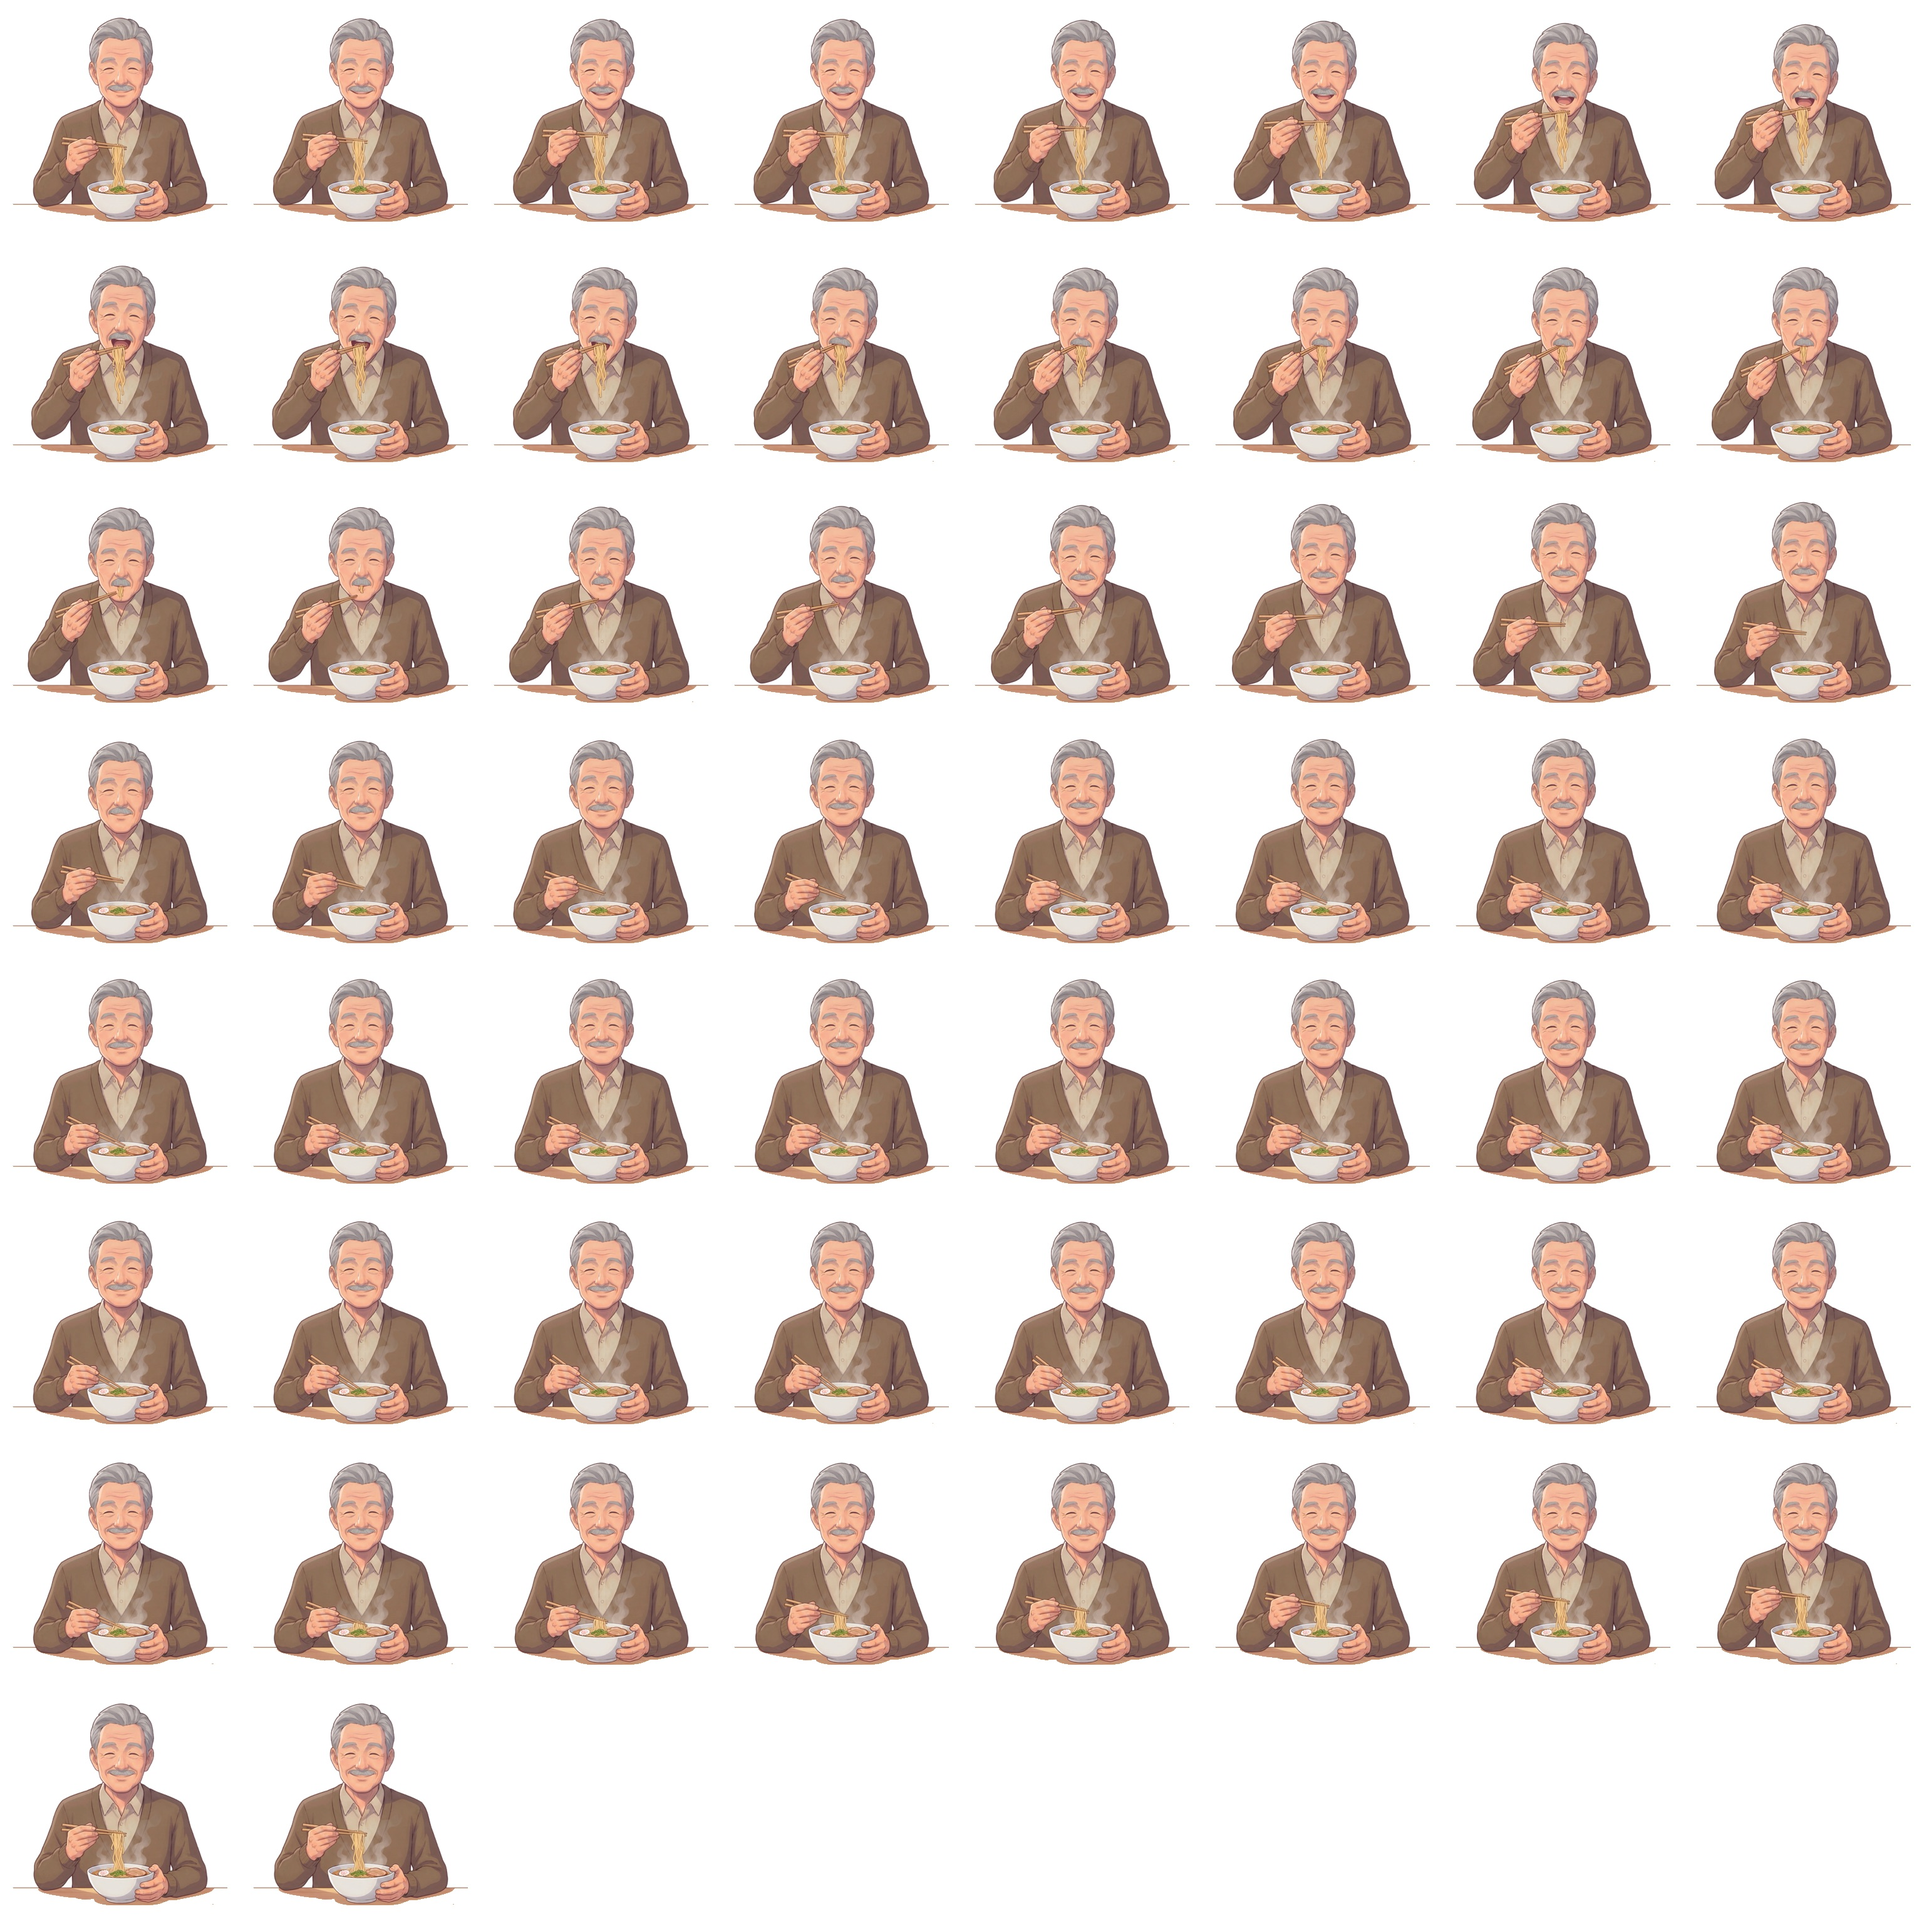
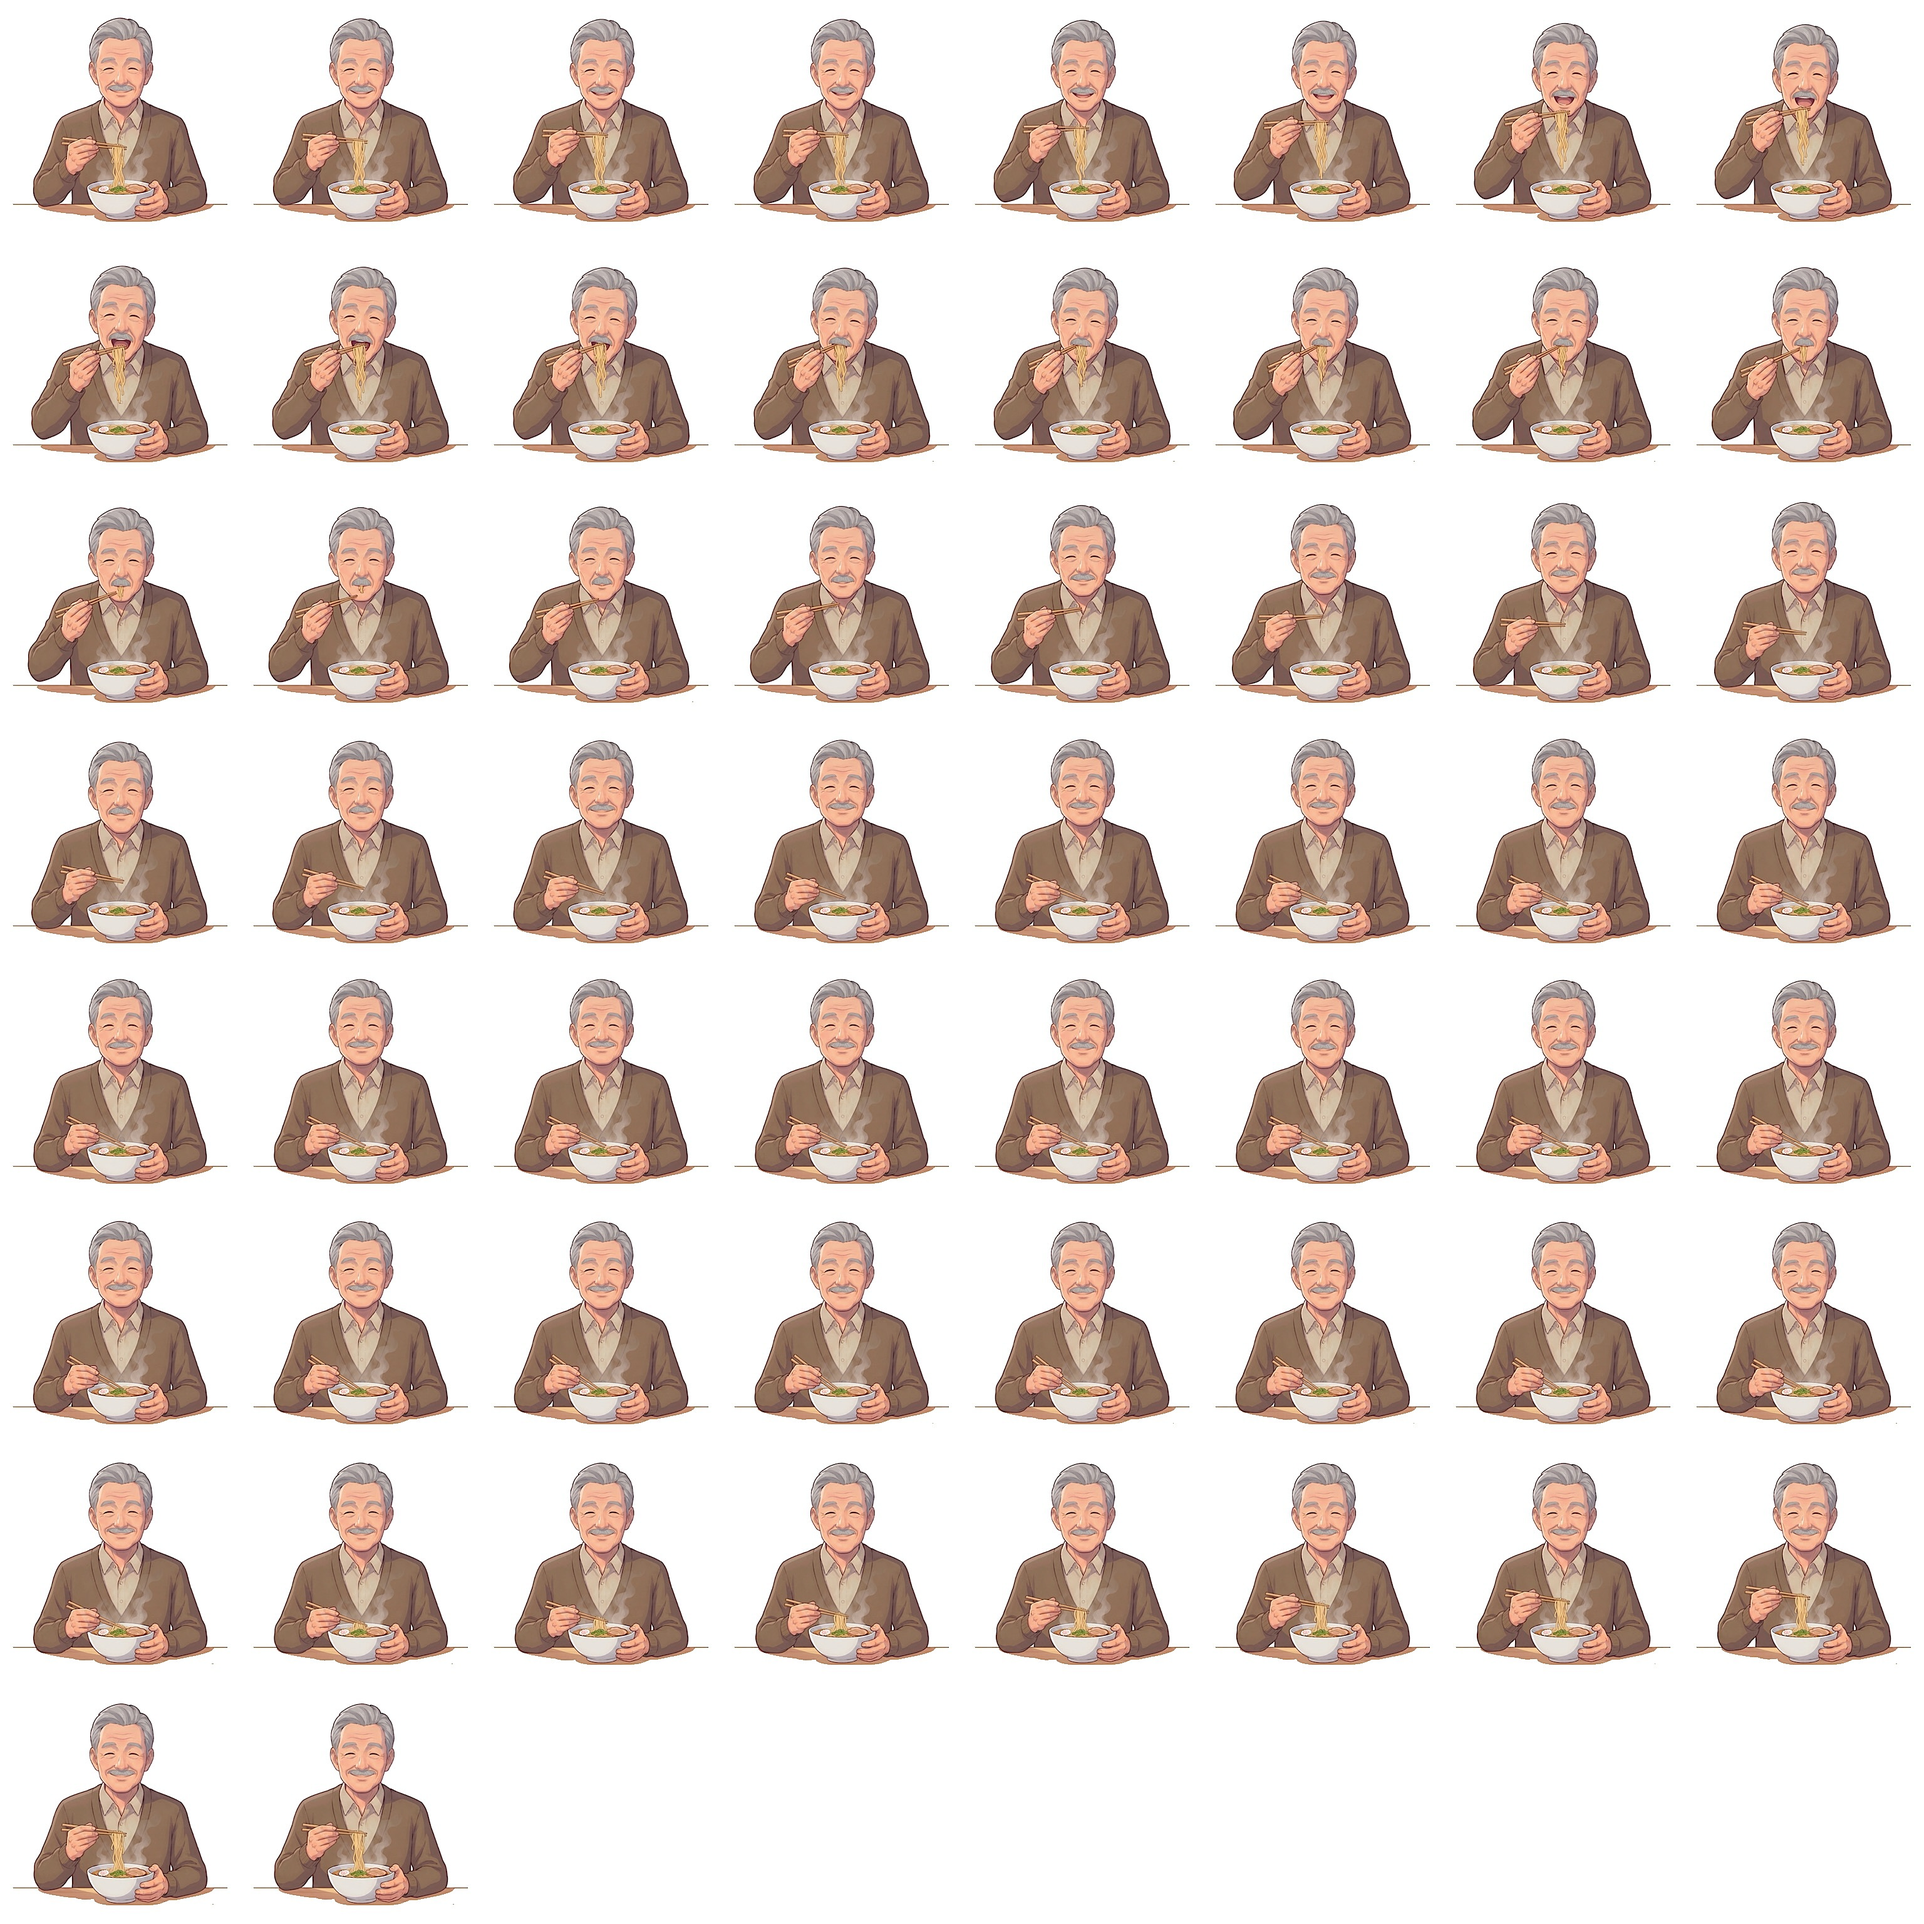
v1.21 · 2D v0.2: 3D 손님 옷 색 여러 가지, 2D 손님 선명도
- 3D: 손님 종류마다 옷 색 3~4가지 중 무작위 (img/chars/*)
- 2D: 할머니 · 할아버지 · 단발머리 여자 움직임 그림을 선명하게 (tools/2d/sharpen.swift)

diff --git a/index.html b/index.html
@@ -922,7 +922,7 @@
 <script type="module">
 import * as THREE from 'three';
 // 게임 버전 — 베타에 올릴 때마다 올림 (시작 화면·일시정지에 표시해서 어느 버전인지 바로 확인)
-const APP_VERSION = 'v1.20', APP_DATE = '11/25';
+const APP_VERSION = 'v1.21', APP_DATE = '11/29';
 document.querySelectorAll('.ver').forEach(el => { el.textContent = `${APP_VERSION} · ${APP_DATE}`; });
 
 // ================= 전국 라멘 제패: 지역 =================
@@ -3469,7 +3469,11 @@ function makePerson(look) {
 // 고화질에서만 불러옴. 다 불러오기 전이나 다른 손님은 위의 블록 사람(makePerson) 그대로
 const CHAR_KINDS = ['salaryman', 'man', 'woman', 'student', 'grandpa', 'grandma']; // 3D 모델이 있는 손님 종류 (나머지는 블록 사람)
 // 같은 모델에 옷 색만 다른 질감(img/chars/<이름>.jpg) — 손님마다 이 중 하나를 무작위로 입힘
-const CHAR_SKINS = { salaryman: ['salaryman'], man: ['man'], woman: ['woman'], student: ['student'], grandpa: ['grandpa'], grandma: ['grandma'] };
+const CHAR_SKINS = {
+  salaryman: ['salaryman', 'salaryman_charcoal', 'salaryman_brown', 'salaryman_black'], man: ['man', 'man_red', 'man_green', 'man_mustard'],
+  woman: ['woman', 'woman_pink', 'woman_blue', 'woman_sage'], student: ['student', 'student_navy'],
+  grandpa: ['grandpa', 'grandpa_olive', 'grandpa_navy', 'grandpa_wine'], grandma: ['grandma', 'grandma_lavender', 'grandma_mustard', 'grandma_teal'],
+};
 const CHAR3D = {};
 const CHAR_S = 0.0085, SIT_Y = 0.35; // 모델(cm, 키 1.9m) → 게임 키 약 1.6m · 앉으면 높은 의자(0.75m)에 맞춰 올림
 const SEATED = new Set(['ordering', 'waiting', 'eating', 'kaedama']);
@@ -6923,7 +6927,7 @@ frame();
 
 // 테스트용 핸들
 window.__game = { setHand: h => setHand(h), sky: (m, r) => updateSky(m, r),
-  get G() { return G; }, get char3d() { return Object.keys(CHAR3D); }, titleCrowd, Sound, VoiceFiles, charSVG, DEFAULT_LOOK, pickVisit, spawnVisit, playTalk, notebook, act, aimed, press, grillStart, grillEnd, serve, spawnCustomer, baskets, endDay,
+  get G() { return G; }, get char3d() { return Object.keys(CHAR3D); }, CHAR3D, titleCrowd, Sound, VoiceFiles, charSVG, DEFAULT_LOOK, pickVisit, spawnVisit, playTalk, notebook, act, aimed, press, grillStart, grillEnd, serve, spawnCustomer, baskets, endDay,
   view(y, p) { yaw = y; pitch = p; },
   step(sec) { for (let t = 0; t < sec; t += 0.05) { update(0.05); visuals(0.05, t); } updateHud(); },
 };

diff --git a/game2d.html b/game2d.html
@@ -252,7 +252,7 @@ const DAYS = [
   { menu: ['tonkotsu', 'shoyu', 'miso', 'tsukemen'], tops: ['negi', 'kikurage', 'nori', 'menma', 'ajitama', 'corn'], note: '츠케멘 시작! 삶은 면을 뒤 주방 싱크에서 찬물에 헹군 뒤 돈코츠 육수 그릇에 담아요.' },
   { menu: ['tonkotsu', 'shoyu', 'miso', 'tsukemen', 'sapporo'], tops: ['negi', 'kikurage', 'nori', 'menma', 'ajitama', 'corn'], note: '미소 버터콘 시작! 뒤 주방 웍을 꾹 눌러 야채를 볶고(초록에서 떼기), 미소 라멘 위에 올려요. 버터는 같이 올라가요.' },
 ];
-const APP_VERSION = '2D v0.1', APP_DATE = '11/29'; // 베타에 올릴 때마다 올리기
+const APP_VERSION = '2D v0.2', APP_DATE = '11/29'; // 베타에 올릴 때마다 올리기
 const dayCfg = () => DAYS[Math.min(G.day, DAYS.length) - 1];
 function firmOf(t) { const N = CFG.noodle; return t < N.katame[0] ? 'raw' : t < N.katame[1] ? 'katame' : t < N.futsu[1] ? 'futsu' : t < N.yawa[1] ? 'yawa' : 'nobi'; }
 const firmPenalty = (want, got) => got === 'raw' || got === 'nobi' ? 2 : Math.abs(FIRM_IDX[want] - FIRM_IDX[got]);
@@ -294,7 +294,7 @@ function loadImg(src) { return new Promise(r => { const im = new Image(); im.onl
 async function loadArt() {
   const jobs = [];
   for (const k of Object.keys(KINDS)) jobs.push(loadImg(`img/cust2d/${k}.png`).then(im => { IMG[k] = im; }));
-  for (const [name, c] of Object.entries(CLIPS)) jobs.push(Promise.all([loadImg(c.colorSrc ?? `img/cust2d/${name}.jpg`), loadImg(c.maskSrc ?? `img/cust2d/${name}_mask.png`)]).then(([a, b]) => { c.color = a; c.mask = b; c.ok = !!(a && b); }));
+  for (const [name, c] of Object.entries(CLIPS)) jobs.push(Promise.all([loadImg((c.colorSrc ?? `img/cust2d/${name}.jpg`) + '?v=2'), loadImg(c.maskSrc ?? `img/cust2d/${name}_mask.png`)]).then(([a, b]) => { c.color = a; c.mask = b; c.ok = !!(a && b); }));
   for (const P of PEOPLE) jobs.push(Promise.all([loadImg(`img/cust2d/people/${P.id}_wait.png`), loadImg(`img/cust2d/people/${P.id}_eat.png`)]).then(([w, e]) => { if (w && e) STILL[P.id] = { wait: w, eat: e, line: P.line }; }));
   await Promise.all(jobs);
 }

diff --git a/tools/2d/sharpen.swift b/tools/2d/sharpen.swift
@@ -1,0 +1,13 @@
+// 흐릿한 손님 그림 묶음(JPEG)을 선명하게: sharpen in.jpg out.jpg [radius] [intensity]
+import AppKit
+import CoreImage
+let a = CommandLine.arguments
+let radius = a.count > 3 ? Double(a[3])! : 1.6, amount = a.count > 4 ? Double(a[4])! : 0.7
+let input = CIImage(contentsOf: URL(fileURLWithPath: a[1]))!
+let f = CIFilter(name: "CIUnsharpMask")!
+f.setValue(input, forKey: kCIInputImageKey); f.setValue(radius, forKey: kCIInputRadiusKey); f.setValue(amount, forKey: kCIInputIntensityKey)
+let out = f.outputImage!.cropped(to: input.extent)
+let ctx = CIContext()
+let cs = CGColorSpace(name: CGColorSpace.sRGB)!
+try! ctx.writeJPEGRepresentation(of: out, to: URL(fileURLWithPath: a[2]), colorSpace: cs, options: [kCGImageDestinationLossyCompressionQuality as CIImageRepresentationOption: 0.82])
+print("ok", a[2])
